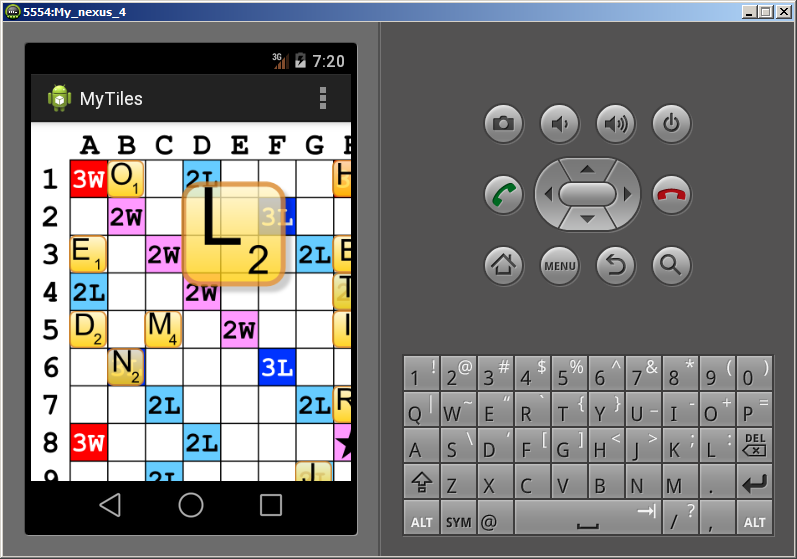
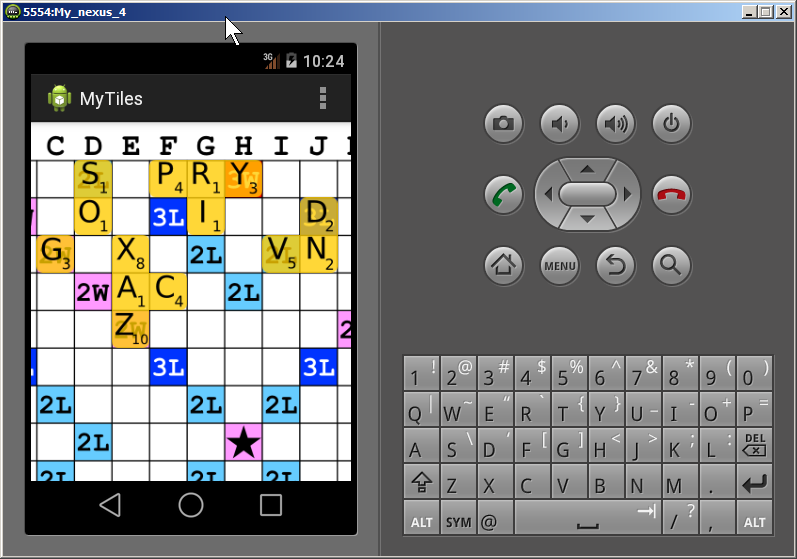
Use a bitmap as container for 4 drawbles

Changed region(s): [[0.0301, 0.2433, 0.4517, 0.8819], [0.3312, 0.0912, 0.4517, 0.1216], [0.271, 0.0304, 0.3011, 0.0912]]

diff --git a/MyTiles/src/de/afarber/mytiles/SmallTile.java b/MyTiles/src/de/afarber/mytiles/SmallTile.java
@@ -3,7 +3,9 @@ package de.afarber.mytiles;
 import java.util.HashMap;
 
 import android.content.Context;
+import android.graphics.Bitmap;
 import android.graphics.Canvas;
+import android.graphics.Paint;
 import android.graphics.drawable.Drawable;
 import android.util.Log;
 
@@ -12,7 +14,7 @@ public class SmallTile {
 	private static final String SQUARE = "square_";
 	private static final String ROUND = "round_";
 	private static final int TILE = R.drawable.round;
-	private static final int ALPHA = 220;
+	private static final int ALPHA = 200;
 	
 	private static final char[] LETTERS = {'A', 'B', 'C', 'D', 'E', 'F', 'G', 'H', 'I', 'J', 'K', 'L', 'M', 'N', 'O', 'P', 'Q', 'R', 'S', 'T', 'U', 'V', 'W', 'X', 'Y', 'Z'};
 	private static final int[] VALUES =   { 1,   4,   4,   2,   1,   4,   3,   3,   1,  10,   5,   2,   4,   2,   1,   4,  12,   1,   1,   1,   2,   5,   4,   8,   3,  10 };
@@ -31,7 +33,8 @@ public class SmallTile {
 	public int height;
 	public boolean visible = true;
 	
-	private Drawable[] mBackground = new Drawable[4];
+	private Bitmap mBitmap;
+	private Paint mPaint = new Paint(Paint.FILTER_BITMAP_FLAG);
 	
 	private char mLetter;
 	private int mValue;
@@ -48,7 +51,6 @@ public class SmallTile {
 		    	int h = sSquare[i].getIntrinsicHeight();
 		    	int x = (i % 2) * w;
 		    	int y = (i / 2) * h;
-		    	Log.d("setBounds", "i=" + i + ": x=" + x + ", y=" + y + ", w=" + w + ", h=" + h);
 		    	sSquare[i].setBounds(x, y, x + w, y + h);
 		    }
 		    
@@ -75,10 +77,22 @@ public class SmallTile {
 	    }
 	    
 	    width = height = 2 * sSquare[0].getIntrinsicWidth();
-	    
-	    for (int i = 0; i < 4; i++)
-	    	mBackground[i] = sSquare[i];
+	    boolean[] corner = {false, false, false, false};
+	    setCorners(corner);
 	}
+    
+    public void setCorners(boolean[] corner) {
+	    mBitmap = Bitmap.createBitmap(width, height, Bitmap.Config.ARGB_8888);
+	    Canvas canvas = new Canvas(mBitmap);
+	    
+	    // true means: there is a neighbor tile
+	    for (int i = 0; i < 4; i++) {
+	    	if (corner[i])
+	    		sSquare[i].draw(canvas);
+	    	else
+	    		sRound[i].draw(canvas);
+	    }
+    }
     
 	public void draw(Canvas canvas) {
 		if (!visible)
@@ -86,8 +100,7 @@ public class SmallTile {
 		
 		canvas.save();
 		canvas.translate(left, top);
-		for (int i = 0; i < 4; i++)
-			mBackground[i].draw(canvas);
+		canvas.drawBitmap(mBitmap, 0, 0, mPaint);
 		Drawable d = sLetters.get(mLetter);
 		d.draw(canvas);
 		canvas.restore();

diff --git a/MyTiles/src/de/afarber/mytiles/MyView.java b/MyTiles/src/de/afarber/mytiles/MyView.java
@@ -165,6 +165,7 @@ public class MyView extends View {
 		            	int col = mSmallTile.getColumn();
 		            	int row = mSmallTile.getRow();
 		            	mGrid[col][row] = null;
+		            	updateNeighbors(col, row);
 		            	
 		            	mBigTile.copy(mSmallTile);
 		            	mBigTile.visible = true;
@@ -383,6 +384,55 @@ public class MyView extends View {
         	mMatrix.postTranslate(dX, dY);
     }
     
+    private boolean[] buildCorners(int col, int row) {
+	    boolean[] corner = {
+		    // top left corner (true means: there is a neighbor tile)
+		    (
+		    	(col > 0 && mGrid[col - 1][row] != null) ||  
+		    	(row > 0 && mGrid[col][row - 1] != null)
+		    ),
+	
+		    // top right corner
+		    (
+		    	(col < 14 && mGrid[col + 1][row] != null) ||  
+		    	(row > 0 && mGrid[col][row - 1] != null)
+		    ),
+			
+		    // bottom left corner
+		    (
+		    	(col > 0 && mGrid[col - 1][row] != null) ||  
+		    	(row < 14 && mGrid[col][row + 1] != null)
+		    ),
+		    
+		    // bottom right corner
+		    (
+		    	(col < 14 && mGrid[col + 1][row] != null) ||  
+		    	(row < 14 && mGrid[col][row + 1] != null)
+		    )
+	    };
+		    
+	    return corner;
+    }
+
+    // check the tiles at 3 x 3 or 2 x 2 sub-grid
+    private void updateNeighbors(int col, int row) {
+    	
+    	int startCol = Math.max(0, col - 1);
+    	int endCol   = Math.min(14, col + 1);
+    	int startRow = Math.max(0, row - 1);
+    	int endRow   = Math.min(14, row + 1);
+    	
+    	for (int i = startCol; i <= endCol; i++) {
+        	for (int j = startRow; j <= endRow; j++) {
+        		SmallTile tile = mGrid[i][j]; 
+        		if (tile != null) {
+        	    	boolean[] corner = buildCorners(i, j);
+        		    tile.setCorners(corner);
+        		}
+        	}
+    	}
+    }
+    
     private void alignToGrid(SmallTile tile) {
     	int col = tile.getColumn();
     	int row = tile.getRow();
@@ -396,8 +446,10 @@ public class MyView extends View {
     	}
     	
     	mGrid[col][row] = tile;
+    	updateNeighbors(col, row);
     	
     	tile.left = (col + 1) * SmallTile.sCellWidth;
     	tile.top = (row + 1) * SmallTile.sCellWidth;
     }
 }
+
